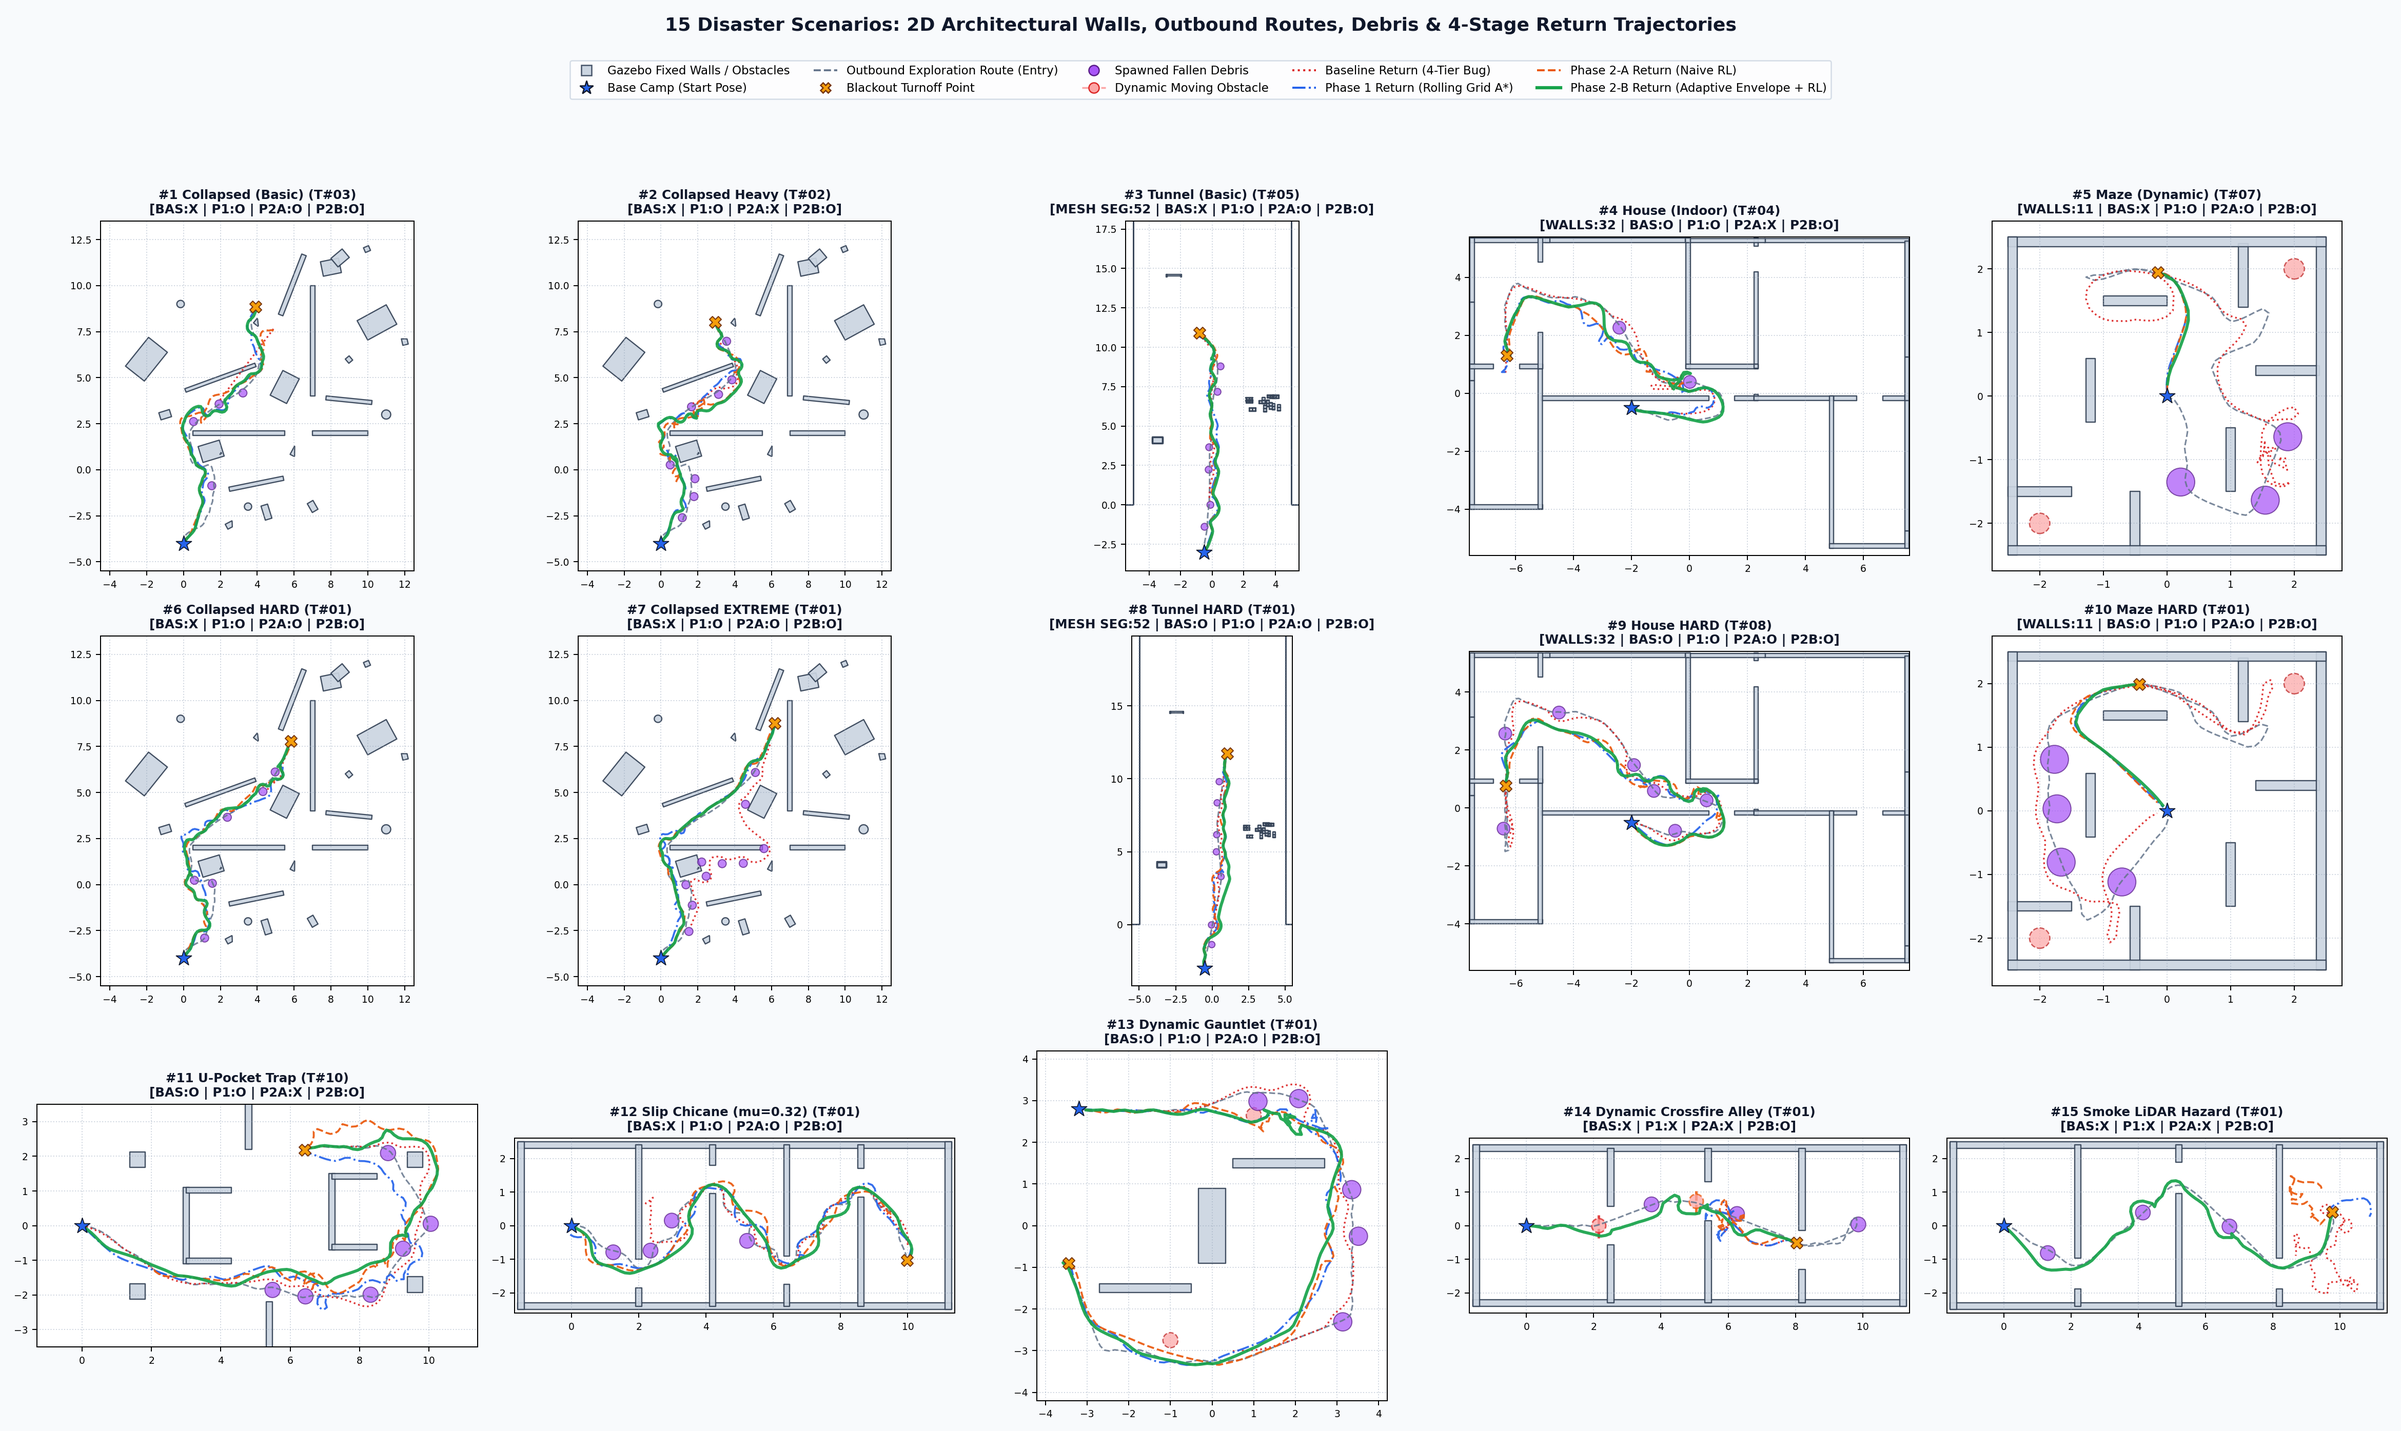
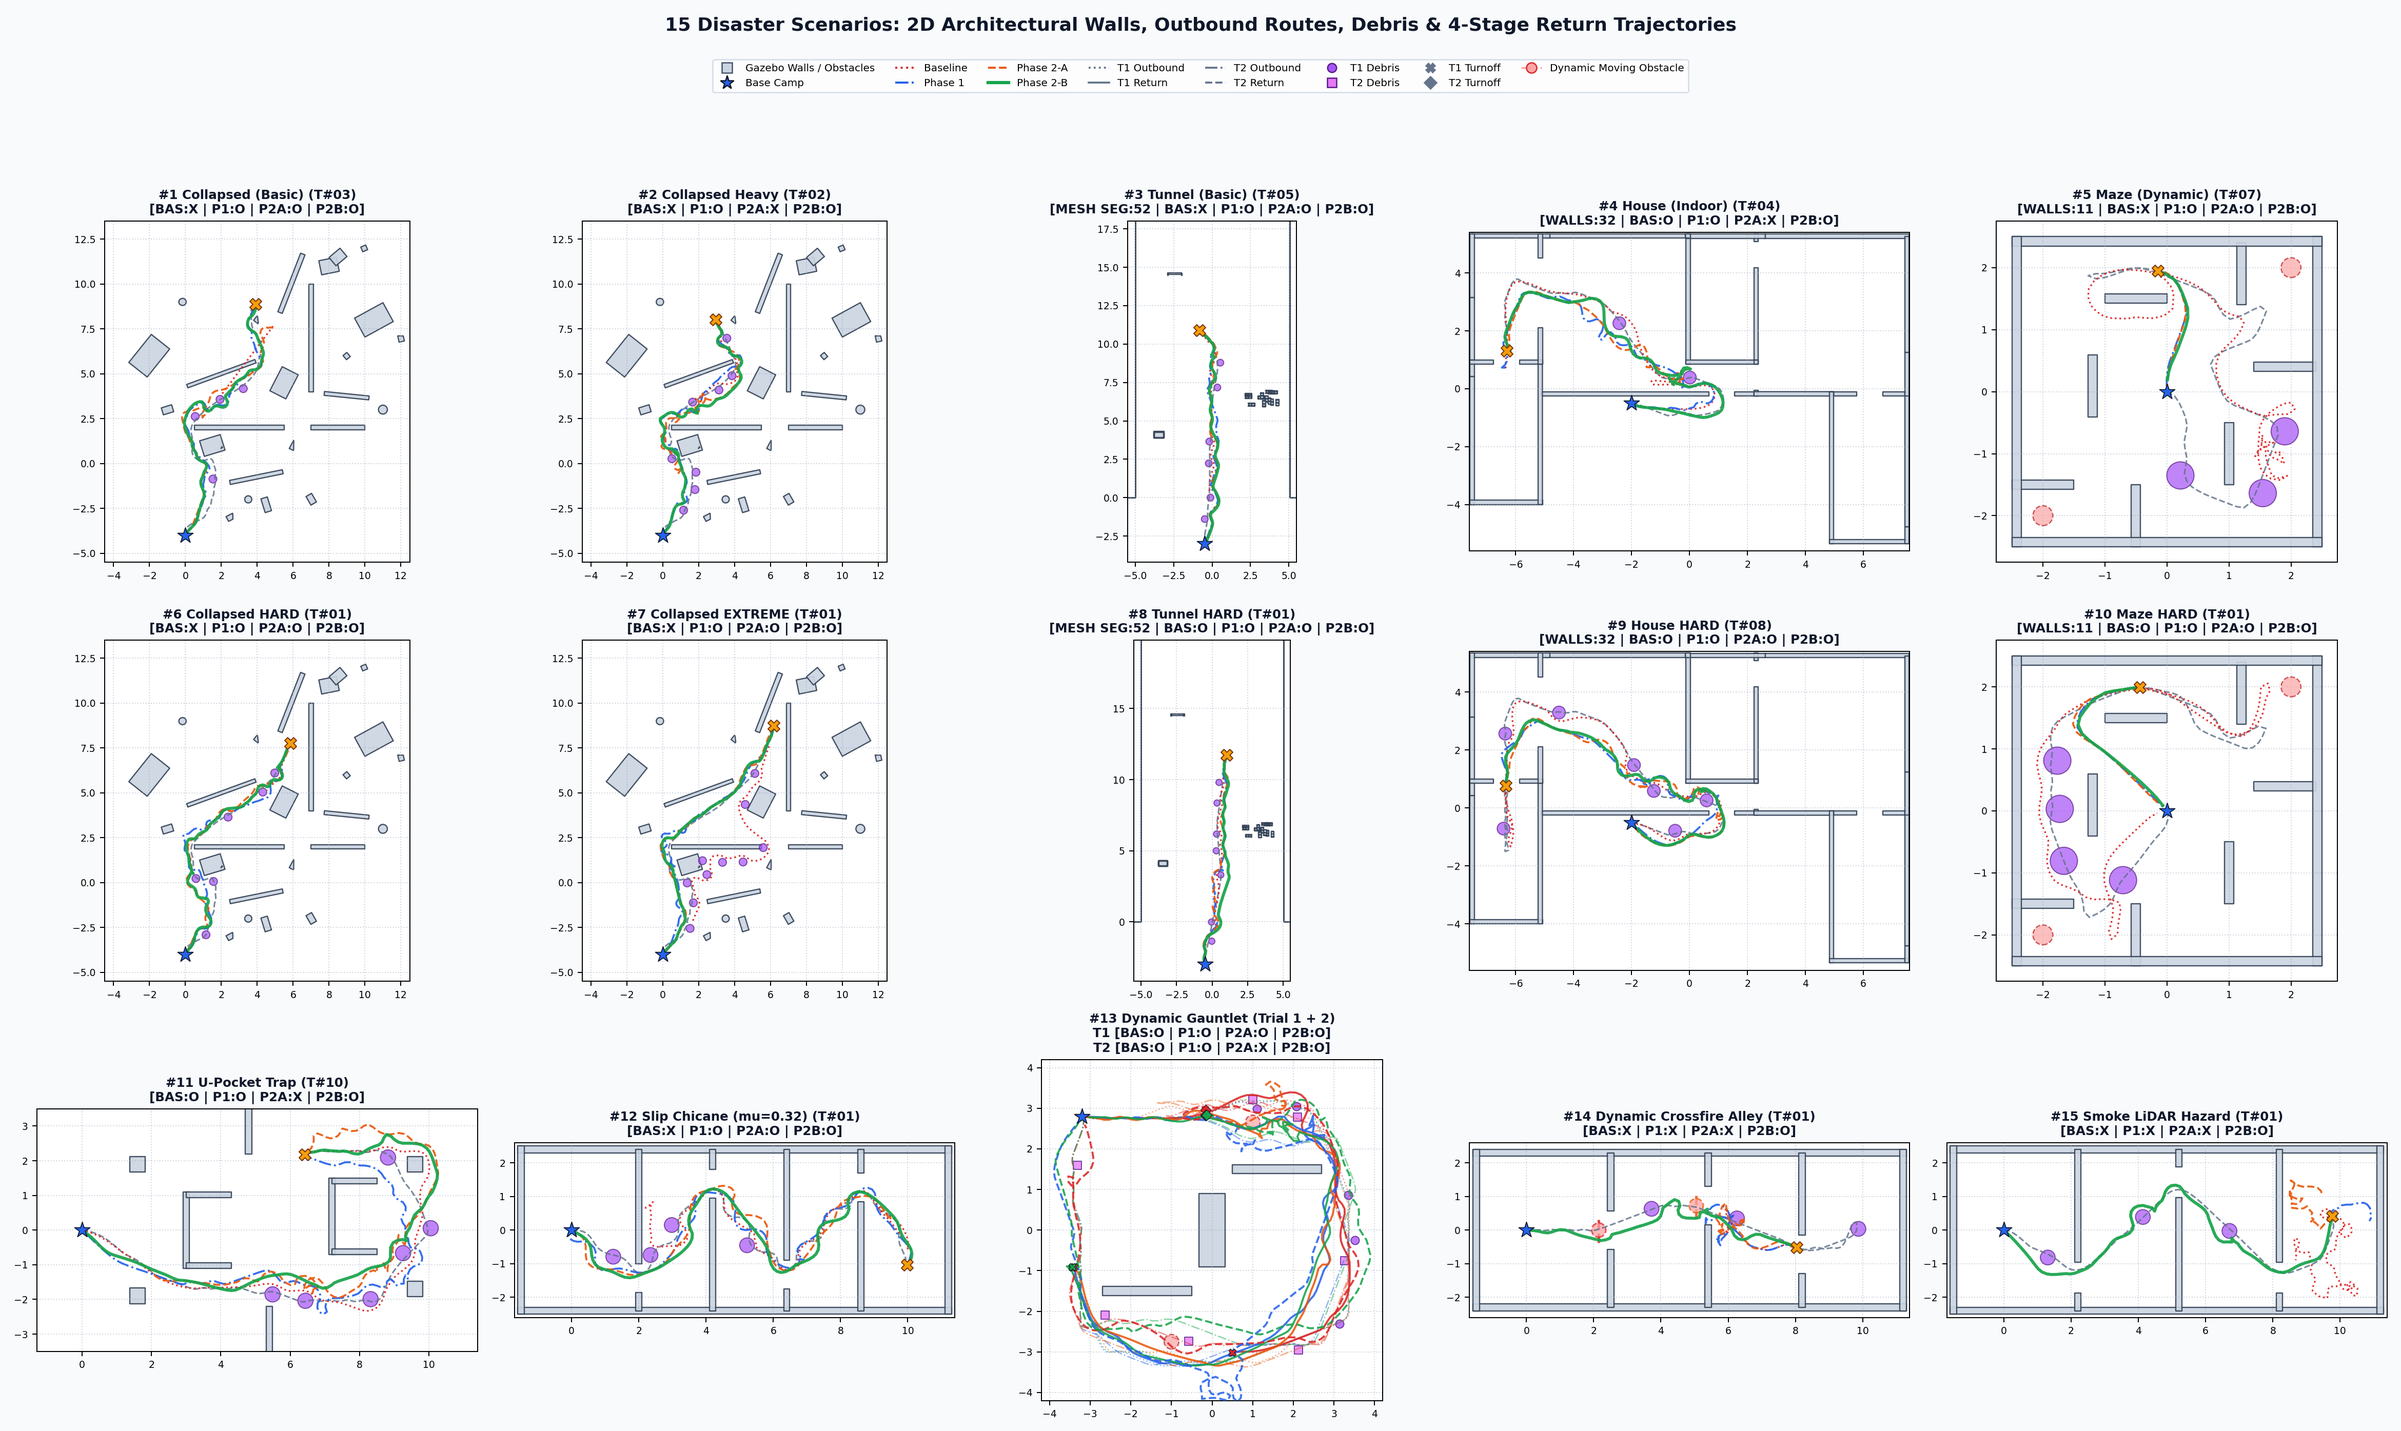
docs(atlas): clarify selected trial visualization criteria and fix gauntlet route

diff --git a/scripts/host/plot_scenario_routes_15_atlas.py b/scripts/host/plot_scenario_routes_15_atlas.py
@@ -218,6 +218,18 @@ def main() -> int:
         r_p2a = selected["phase2a"]
         r_p2b = selected["phase2b"]
 
+        gauntlet_trials = {}
+        if sc == "dynamic_gauntlet":
+            for trial_num in (1, 2):
+                records = {
+                    "baseline": _select_trial(stages["bas"], trial_num, sc, "baseline"),
+                    "phase1": _select_trial(stages["p1"], trial_num, sc, "phase1"),
+                    "phase2a": _select_trial(stages["p2a"], trial_num, sc, "phase2a"),
+                    "phase2b": _select_trial(stages["p2b"], trial_num, sc, "phase2b"),
+                }
+                _validate_stage_identity(sc, trial_num, records)
+                gauntlet_trials[trial_num] = records
+
         if sc == "dynamic_gauntlet":
             for stage_name, rec in selected.items():
                 out = np.asarray(rec.get("outbound_path", []), dtype=float)
@@ -298,46 +310,134 @@ def main() -> int:
             for _, dx, dy, dr in fp.dynamic_markers:
                 ax.add_patch(mpatches.Circle((dx, dy), max(dr, 0.16), facecolor="#fca5a5", edgecolor="#b91c1c", ls="--", lw=1.0, alpha=0.7, zorder=2))
 
-        # 2. Spawned fallen debris rocks (purple circles)
-        for deb in r_p2b.get("debris_positions", []):
-            ax.add_patch(mpatches.Circle((deb[0], deb[1]), 0.22, facecolor="#a855f7", edgecolor="#581c87", lw=0.8, alpha=0.72, zorder=3))
+        if sc == "dynamic_gauntlet":
+            stage_colors = {
+                "baseline": "#dc2626",
+                "phase1": "#2563eb",
+                "phase2a": "#ea580c",
+                "phase2b": "#16a34a",
+            }
+            trial_styles = {
+                1: {"outbound": ":", "return": "-", "debris": "o", "turnoff": "X"},
+                2: {"outbound": "-.", "return": "--", "debris": "s", "turnoff": "D"},
+            }
 
-        # 3. Outbound exploration trajectory (grey dashed)
-        out_pts = np.array(r_p2b.get("outbound_path", []), dtype=float)
-        if len(out_pts) >= 2:
-            ax.plot(out_pts[:, 0], out_pts[:, 1], color="#64748b", ls="--", lw=1.25, alpha=0.85, zorder=4)
+            for trial_num, records in gauntlet_trials.items():
+                style = trial_styles[trial_num]
 
-        # 4. 4-Stage Return trajectories
-        for rec, col, ls, lw, zo in (
-            (r_bas, "#dc2626", ":", 1.35, 5),
-            (r_p1, "#2563eb", "-.", 1.50, 6),
-            (r_p2a, "#ea580c", "--", 1.50, 7),
-            (r_p2b, "#16a34a", "-", 2.35, 8),
-        ):
-            r_pts = np.array(rec.get("return_path", []), dtype=float)
-            if len(r_pts) >= 2:
-                ax.plot(r_pts[:, 0], r_pts[:, 1], color=col, ls=ls, lw=lw, alpha=0.92, zorder=zo)
+                for deb in records["phase2b"].get("debris_positions", []):
+                    ax.scatter(
+                        [deb[0]], [deb[1]], marker=style["debris"], s=42,
+                        facecolor="#a855f7" if trial_num == 1 else "#e879f9",
+                        edgecolor="#581c87", linewidth=0.8, alpha=0.78, zorder=3,
+                    )
 
-        # 5. Base Camp (blue star) & Blackout point (orange X)
-        if len(out_pts) >= 1:
-            ax.scatter([out_pts[0, 0]], [out_pts[0, 1]], marker="*", s=160, color="#2563eb", edgecolor="#0f172a", lw=0.7, zorder=10)
-        tp = r_p2b.get("turnoff_pose")
-        if tp:
-            ax.scatter([tp[0]], [tp[1]], marker="X", s=85, color="#f59e0b", edgecolor="#78350f", lw=0.8, zorder=10)
+                for stage_name, rec in records.items():
+                    color = stage_colors[stage_name]
+                    out_pts = np.asarray(rec.get("outbound_path", []), dtype=float)
+                    ret_pts = np.asarray(rec.get("return_path", []), dtype=float)
 
-        if sc in {"house", "house_hard", "maze", "maze_hard"}:
-            geometry_tag = f"WALLS:{wall_count} | "
-        elif sc in {"tunnel", "tunnel_hard"}:
-            geometry_tag = f"MESH SEG:{segment_count} | "
+                    if out_pts.ndim == 2 and len(out_pts) >= 2 and out_pts.shape[1] >= 2:
+                        ax.plot(
+                            out_pts[:, 0], out_pts[:, 1], color=color,
+                            ls=style["outbound"], lw=1.05, alpha=0.48, zorder=4,
+                        )
+                    else:
+                        print(f"[WARN] T{trial_num} {stage_name}: invalid outbound_path")
+
+                    if ret_pts.ndim == 2 and len(ret_pts) >= 2 and ret_pts.shape[1] >= 2:
+                        ax.plot(
+                            ret_pts[:, 0], ret_pts[:, 1], color=color,
+                            ls=style["return"], lw=1.55, alpha=0.88, zorder=6,
+                        )
+                    else:
+                        print(f"[WARN] T{trial_num} {stage_name}: invalid return_path")
+
+                    tp = rec.get("turnoff_pose")
+                    if tp is not None and len(tp) >= 2:
+                        ax.scatter(
+                            [tp[0]], [tp[1]], marker=style["turnoff"], s=34,
+                            color=color, edgecolor="#0f172a", linewidth=0.45, zorder=9,
+                        )
+                    else:
+                        print(f"[WARN] T{trial_num} {stage_name}: missing turnoff_pose")
+
+            base = gauntlet_trials[1]["baseline"].get("outbound_path", [])
+            if len(base):
+                ax.scatter(
+                    [base[0][0]], [base[0][1]], marker="*", s=160,
+                    color="#2563eb", edgecolor="#0f172a", lw=0.7, zorder=10,
+                )
         else:
-            geometry_tag = ""
-        tag_s = (
-            f"[{geometry_tag}BAS:{'O' if r_bas['success'] else 'X'} | "
-            f"P1:{'O' if r_p1['success'] else 'X'} | "
-            f"P2A:{'O' if r_p2a['success'] else 'X'} | "
-            f"P2B:{'O' if r_p2b['success'] else 'X'}]"
-        )
-        ax.set_title(f"{title_base}\n{tag_s}", fontsize=9.8, fontweight="bold", pad=6, color="#0f172a")
+            for deb in r_p2b.get("debris_positions", []):
+                ax.add_patch(mpatches.Circle(
+                    (deb[0], deb[1]), 0.22, facecolor="#a855f7",
+                    edgecolor="#581c87", lw=0.8, alpha=0.72, zorder=3
+                ))
+
+            out_pts = np.array(r_p2b.get("outbound_path", []), dtype=float)
+            if len(out_pts) >= 2:
+                ax.plot(
+                    out_pts[:, 0], out_pts[:, 1], color="#64748b",
+                    ls="--", lw=1.25, alpha=0.85, zorder=4
+                )
+
+            for rec, col, ls, lw, zo in (
+                (r_bas, "#dc2626", ":", 1.35, 5),
+                (r_p1, "#2563eb", "-.", 1.50, 6),
+                (r_p2a, "#ea580c", "--", 1.50, 7),
+                (r_p2b, "#16a34a", "-", 2.35, 8),
+            ):
+                r_pts = np.array(rec.get("return_path", []), dtype=float)
+                if len(r_pts) >= 2:
+                    ax.plot(
+                        r_pts[:, 0], r_pts[:, 1], color=col,
+                        ls=ls, lw=lw, alpha=0.92, zorder=zo
+                    )
+
+            if len(out_pts) >= 1:
+                ax.scatter(
+                    [out_pts[0, 0]], [out_pts[0, 1]], marker="*", s=160,
+                    color="#2563eb", edgecolor="#0f172a", lw=0.7, zorder=10
+                )
+            tp = r_p2b.get("turnoff_pose")
+            if tp:
+                ax.scatter(
+                    [tp[0]], [tp[1]], marker="X", s=85, color="#f59e0b",
+                    edgecolor="#78350f", lw=0.8, zorder=10
+                )
+
+        if sc == "dynamic_gauntlet":
+            status_lines = []
+            for trial_num, records in gauntlet_trials.items():
+                status = " | ".join(
+                    f"{label}:{'O' if records[key]['success'] else 'X'}"
+                    for label, key in (
+                        ("BAS", "baseline"),
+                        ("P1", "phase1"),
+                        ("P2A", "phase2a"),
+                        ("P2B", "phase2b"),
+                    )
+                )
+                status_lines.append(f"T{trial_num} [{status}]")
+            tag_s = "\n".join(status_lines)
+            panel_title = "#13 Dynamic Gauntlet (Trial 1 + 2)"
+        else:
+            if sc in {"house", "house_hard", "maze", "maze_hard"}:
+                geometry_tag = f"WALLS:{wall_count} | "
+            elif sc in {"tunnel", "tunnel_hard"}:
+                geometry_tag = f"MESH SEG:{segment_count} | "
+            else:
+                geometry_tag = ""
+            tag_s = (
+                f"[{geometry_tag}BAS:{'O' if r_bas['success'] else 'X'} | "
+                f"P1:{'O' if r_p1['success'] else 'X'} | "
+                f"P2A:{'O' if r_p2a['success'] else 'X'} | "
+                f"P2B:{'O' if r_p2b['success'] else 'X'}]"
+            )
+            panel_title = title_base
+
+        ax.set_title(f"{panel_title}\n{tag_s}", fontsize=9.8, fontweight="bold", pad=6, color="#0f172a")
         ax.set_xlim(roi[0], roi[1])
         ax.set_ylim(roi[2], roi[3])
         ax.set_aspect("equal", adjustable="box")
@@ -345,23 +445,28 @@ def main() -> int:
         ax.tick_params(labelsize=7.5)
 
     handles = [
-        mlines.Line2D([], [], color="#cbd5e1", marker="s", markersize=8, markeredgecolor="#475569", ls="None", label="Gazebo Fixed Walls / Obstacles"),
-        mlines.Line2D([], [], color="#2563eb", marker="*", markersize=11, markeredgecolor="#0f172a", ls="None", label="Base Camp (Start Pose)"),
-        mlines.Line2D([], [], color="#64748b", ls="--", lw=1.5, label="Outbound Exploration Route (Entry)"),
-        mlines.Line2D([], [], color="#f59e0b", marker="X", markersize=8, markeredgecolor="#78350f", ls="None", label="Blackout Turnoff Point"),
-        mlines.Line2D([], [], color="#a855f7", marker="o", markersize=8, markeredgecolor="#581c87", ls="None", label="Spawned Fallen Debris"),
+        mlines.Line2D([], [], color="#cbd5e1", marker="s", markersize=8, markeredgecolor="#475569", ls="None", label="Gazebo Walls / Obstacles"),
+        mlines.Line2D([], [], color="#2563eb", marker="*", markersize=11, markeredgecolor="#0f172a", ls="None", label="Base Camp"),
+        mlines.Line2D([], [], color="#dc2626", ls=":", lw=1.6, label="Baseline"),
+        mlines.Line2D([], [], color="#2563eb", ls="-.", lw=1.6, label="Phase 1"),
+        mlines.Line2D([], [], color="#ea580c", ls="--", lw=1.6, label="Phase 2-A"),
+        mlines.Line2D([], [], color="#16a34a", ls="-", lw=2.5, label="Phase 2-B"),
+        mlines.Line2D([], [], color="#64748b", ls=":", lw=1.5, label="T1 Outbound"),
+        mlines.Line2D([], [], color="#64748b", ls="-", lw=1.5, label="T1 Return"),
+        mlines.Line2D([], [], color="#64748b", ls="-.", lw=1.5, label="T2 Outbound"),
+        mlines.Line2D([], [], color="#64748b", ls="--", lw=1.5, label="T2 Return"),
+        mlines.Line2D([], [], color="#a855f7", marker="o", markersize=7, markeredgecolor="#581c87", ls="None", label="T1 Debris"),
+        mlines.Line2D([], [], color="#e879f9", marker="s", markersize=7, markeredgecolor="#581c87", ls="None", label="T2 Debris"),
+        mlines.Line2D([], [], color="#64748b", marker="X", markersize=7, ls="None", label="T1 Turnoff"),
+        mlines.Line2D([], [], color="#64748b", marker="D", markersize=7, ls="None", label="T2 Turnoff"),
         mlines.Line2D([], [], color="#fca5a5", marker="o", markersize=8, markeredgecolor="#dc2626", ls="--", lw=1.4, label="Dynamic Moving Obstacle"),
-        mlines.Line2D([], [], color="#dc2626", ls=":", lw=1.6, label="Baseline Return (4-Tier Bug)"),
-        mlines.Line2D([], [], color="#2563eb", ls="-.", lw=1.6, label="Phase 1 Return (Rolling Grid A*)"),
-        mlines.Line2D([], [], color="#ea580c", ls="--", lw=1.6, label="Phase 2-A Return (Naive RL)"),
-        mlines.Line2D([], [], color="#16a34a", ls="-", lw=2.5, label="Phase 2-B Return (Adaptive Envelope + RL)"),
     ]
     fig.legend(
         handles=handles,
         loc="upper center",
         bbox_to_anchor=(0.5, 0.962),
-        ncol=5,
-        fontsize=9.2,
+        ncol=8,
+        fontsize=8.0,
         frameon=True,
         facecolor="#ffffff",
         edgecolor="#cbd5e1",

diff --git a/README.md b/README.md
@@ -302,6 +302,11 @@ flowchart TD
   <em>▲ 15개 시나리오 2D 벽체·구조 단면 및 이동 경로 지도: 고정 벽체·구조물(회색 단면), 출발 기지(★), 진입 경로(회색 점선), 통신 단절 지점(✖), 낙석(보라색 원), 알고리즘별 복귀 궤적 (`docs/images/scenario_routes_15_atlas.png`)</em>
 </p>
 
+> **Selected Trial Visualization (`Trial 1` · `Trial 2` 궤적 비교 기준):**
+> - 본 Atlas(`docs/images/scenario_routes_15_atlas.png`)는 각 실험 단계별 **10회 반복 시행 중 선정된 `Trial 1` 및 `Trial 2`의 실제 기록 궤적(`outbound_path`, `return_path`)** 을 보정 없이 그대로 시각화한 궤적 단위(trajectory-level) 비교 자료입니다.
+> - 선정된 궤적은 10회 전체 시행의 평균 성능이나 통계적 대표 표본을 의미하지 않습니다.
+> - `#13 dynamic_gauntlet`의 **Phase 2-A**는 총 `8/10 (80%)` 성공률을 기록했으며(`Trial 2 (Seed 2228)` 및 `Trial 5 (Seed 2531)` 실패), 본 Atlas에는 실제 실패 사례인 `Trial 2`의 기록 궤적이 수정 없이 포함되어 있습니다.
+
 | # | 시나리오 ID | 맵 특징 | 시작 좌표 | 주요 진입 경로 (Outbound) | 단절 거리 | 추가 장애물 조건 |
 | :-: | :--- | :--- | :---: | :--- | :---: | :--- |
 | **1** | `collapsed` | `20×20m` 붕괴 실내 | `(0.0, -4.0)` | 남측 기지 ➔ 중앙 잔해 통로 ➔ 북측 구역 | `12.0-20.0m` | 낙석 `3-6`개 |
